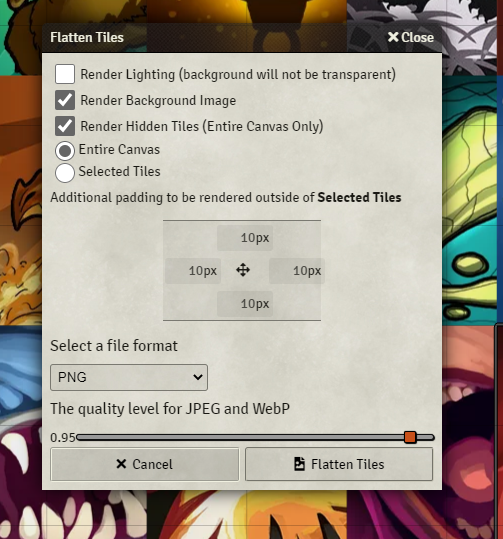
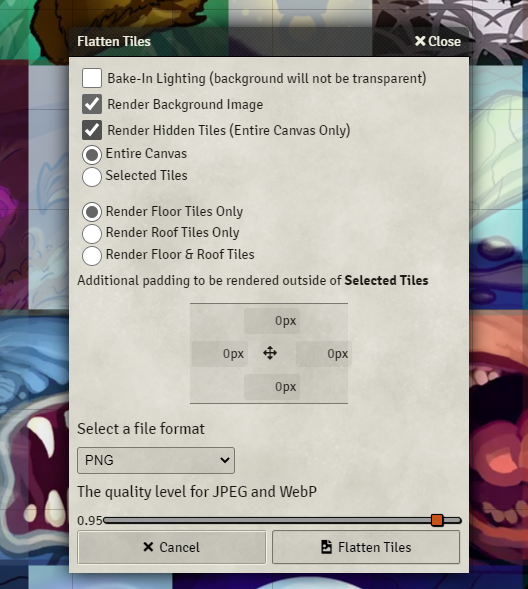
Tile Flattener now filters roofs and floors

diff --git a/src/tiles/TileFlattener.ts b/src/tiles/TileFlattener.ts
@@ -11,6 +11,12 @@ interface Margin {
 }
 interface ImageData { data: string, width: number, height: number }
 
+enum TileLayerRendered {
+	Floor,
+	Roof,
+	Both
+}
+
 export default class TileFlattener {
 
 	private static readonly PREF_RENDER_LIGHT = "TileFlattener.RenderLighting";
@@ -18,19 +24,18 @@ export default class TileFlattener {
 	private static readonly PREF_RENDER_SLCTD = "TileFlattener.RenderSelectedOnly";
 	private static readonly PREF_RENDER_HIDEN = "TileFlattener.RenderHiddenTiles";
 	private static readonly PREF_MARGIN = "TileFlattener.Margin";
+	private static readonly PREF_LAYERS = "TileFlattener.Layers";
 	static readonly PREF_FOLDER = "TileFlattener.Folder";
 	static readonly PREF_FOLDER_SOURCE = "TileFlattener.FolderSource";
 
-	private static get renderLights(): Boolean { return SETTINGS.get(this.PREF_RENDER_LIGHT); }
-	private static set renderLights(value: Boolean) { SETTINGS.set(this.PREF_RENDER_LIGHT, value); }
-	private static get renderBackground(): Boolean { return SETTINGS.get(this.PREF_RENDER_BACKG); }
-	private static set renderBackground(value: Boolean) { SETTINGS.set(this.PREF_RENDER_BACKG, value); }
-	private static get renderSelected(): Boolean { return SETTINGS.get(this.PREF_RENDER_SLCTD); }
-	private static set renderSelected(value: Boolean) { SETTINGS.set(this.PREF_RENDER_SLCTD, value); }
-	private static get renderHidden(): Boolean { return SETTINGS.get(this.PREF_RENDER_HIDEN); }
-	private static set renderHidden(value: Boolean) { SETTINGS.set(this.PREF_RENDER_HIDEN, value); }
+	private static get renderLights(): boolean { return SETTINGS.get(this.PREF_RENDER_LIGHT); }
+	private static get renderBackground(): boolean { return SETTINGS.get(this.PREF_RENDER_BACKG); }
+	private static get renderSelected(): boolean { return SETTINGS.get(this.PREF_RENDER_SLCTD); }
+	private static get renderHidden(): boolean { return SETTINGS.get(this.PREF_RENDER_HIDEN); }
 	private static get margin(): Margin { return SETTINGS.get(this.PREF_MARGIN); }
-	private static set margin(value: Margin) { SETTINGS.set(this.PREF_MARGIN, value); }
+	private static get layers(): number { return SETTINGS.get(this.PREF_LAYERS); }
+	private static get folder(): string { return SETTINGS.get(this.PREF_FOLDER); }
+	private static get folderSource(): string { return SETTINGS.get(this.PREF_FOLDER_SOURCE); }
 
 	static init() {
 		//#region Register Render Configuration Settings
@@ -38,6 +43,7 @@ export default class TileFlattener {
 		SETTINGS.register<Boolean>(this.PREF_RENDER_BACKG, { scope: 'client', config: false, type: Boolean, default: true });
 		SETTINGS.register<Boolean>(this.PREF_RENDER_SLCTD, { scope: 'client', config: false, type: Boolean, default: false });
 		SETTINGS.register<Boolean>(this.PREF_RENDER_HIDEN, { scope: 'client', config: false, type: Boolean, default: true });
+		SETTINGS.register<Number>(this.PREF_LAYERS, { scope: 'client', config: false, type: Number, default: 0 });
 		SETTINGS.register<Margin>(this.PREF_MARGIN, { scope: 'client', config: false, type: SETTINGS.typeOf<Margin>(), default: { l: 0, r: 0, t: 0, b: 0 } });
 		//#endregion
 
@@ -72,7 +78,8 @@ export default class TileFlattener {
 			lights: this.renderLights,
 			showBG: this.renderBackground,
 			select: this.renderSelected,
-			hidden: this.renderHidden
+			hidden: this.renderHidden,
+			layers: this.layers
 		};
 		const dialog: Dialog = new Dialog({
 			title: 'DF_ARCHITECT.TileFlattener.CapturePromptTitle'.localize(),
@@ -110,6 +117,9 @@ export default class TileFlattener {
 		const showBG = html.querySelector<HTMLInputElement>('#showBG').checked;
 		const hidden = html.querySelector<HTMLInputElement>('#hidden').checked;
 		const select = html.querySelector<HTMLInputElement>('#tiles').checked;
+		const layers = html.querySelector<HTMLInputElement>('#floor').checked
+			? TileLayerRendered.Floor : html.querySelector<HTMLInputElement>('#roof').checked
+				? TileLayerRendered.Roof : TileLayerRendered.Both;
 		// Save data as defaults for later
 		await Promise.all([
 			SETTINGS.set(this.PREF_RENDER_LIGHT, lights),
@@ -118,6 +128,7 @@ export default class TileFlattener {
 			SETTINGS.set(this.PREF_RENDER_SLCTD, select),
 			SETTINGS.set(this.PREF_MARGIN, margin),
 			SETTINGS.set(this.PREF_RENDER_LIGHT, lights),
+			SETTINGS.set(this.PREF_LAYERS, layers),
 			SETTINGS.set(CaptureGameScreen.PREF_FRMT, format),
 			SETTINGS.set(CaptureGameScreen.PREF_COMP, quality),
 		]);
@@ -150,22 +161,31 @@ export default class TileFlattener {
 			CaptureGameScreen.toggleLayer(layer.name, false)
 		}
 		CaptureGameScreen.toggleLayer("LightingLayer", lights);
+		if (layers === TileLayerRendered.Floor)
+			CaptureGameScreen.toggleLayer("ForegroundLayer", false);
+		else if (layers === TileLayerRendered.Roof) {
+			// Hide all tiles on the background layer
+			for (let tile of canvas.background.tiles) {
+				tilesPreHidden.push([tile, tile.data.hidden]);
+				tile.data.hidden = true;
+			}
+		}
 		// Update the Background Image
 		canvas.background.bg.visible = showBG;
 		(<any>canvas.app.renderer).backgroundAlpha = 0;
 
 		// Begin the Canvas Capture Process
 		const session = CaptureGameScreen.beginCapture(false);
+		var image: ImageData;
 		try {
 			if (!session) {
 				ui.notifications.warn('DF_ARCHITECT.CaptureGameScreen.ErrorCaptureInProgress'.localize());
 				this.promptForTileFlattening();
 				return;
 			}
-			CaptureGameScreen.toggleHidden("BackgroundLayer", hidden && !select);
+			CaptureGameScreen.toggleHidden("BackgroundLayer", hidden && !select && layers !== TileLayerRendered.Roof);
 			CaptureGameScreen.toggleHidden("ForegroundLayer", hidden && !select);
 
-			var image: ImageData;
 			if (select) {
 				const rect = {
 					l: Number.MAX_VALUE,
@@ -192,19 +212,6 @@ export default class TileFlattener {
 			} else {
 				image = await CaptureGameScreen.captureCanvas({ format: 'image/' + format, quality });
 			}
-			// Terminate the canvas capture
-			CaptureGameScreen.endCapture(session);
-			// Save the image data to file
-			const filePath = await CaptureGameScreen.saveImageData({
-				image,
-				defaultFileName: 'DF_ARCHITECT.TileFlattener.SaveImageDialog.FileNamePlaceholder'.localize(),
-				dialogTitle: 'DF_ARCHITECT.TileFlattener.SaveImageDialog.Title'.localize(),
-				folder: SETTINGS.get<string>(this.PREF_FOLDER),
-				folderSource: SETTINGS.get<string>(this.PREF_FOLDER_SOURCE)
-			});
-			// Prompt to ask what to do with it
-			if (!!filePath)
-				this.promptSceneReplacement(filePath, image.width, image.height);
 		} finally {
 			// Terminate the canvas capture
 			CaptureGameScreen.endCapture(session);
@@ -214,10 +221,22 @@ export default class TileFlattener {
 			// Restore the non-selected tiles
 			for (let [tile, hidden] of tilesPreHidden) {
 				tile.data.hidden = hidden;
+				tile.refresh();
 			}
 			// Restore selection
 			controlledTiles.forEach(x => x.control({ releaseOthers: false }));
 		}
+		// Save the image data to file
+		CaptureGameScreen.saveImageData({
+			image,
+			defaultFileName: 'DF_ARCHITECT.TileFlattener.SaveImageDialog.FileNamePlaceholder'.localize(),
+			dialogTitle: 'DF_ARCHITECT.TileFlattener.SaveImageDialog.Title'.localize(),
+			folder: this.folder,
+			folderSource: this.folderSource
+		}).then(filePath => {
+			// Prompt to ask what to do with it
+			if (!!filePath) this.promptSceneReplacement(filePath, image.width, image.height, layers, lights);
+		});
 	}
 
 	private static setupBindings(html: JQuery) {
@@ -238,7 +257,7 @@ export default class TileFlattener {
 		tiles.on('change', update);
 	}
 
-	private static async promptSceneReplacement(filePath: string, width: number, height: number) {
+	private static async promptSceneReplacement(filePath: string, width: number, height: number, layersRendered: TileLayerRendered, bakedLighting: boolean) {
 		const dialog: Dialog = new Dialog({
 			title: 'DF_ARCHITECT.TileFlattener.SceneReplaceDialog.Title'.localize(),
 			content: await renderTemplate(`modules/${ARCHITECT.MOD_NAME}/templates/tile-flatten-scene.hbs`, {}),
@@ -258,38 +277,25 @@ export default class TileFlattener {
 				});
 				html.find('#clone').on('click', async (e) => {
 					e.preventDefault();
-					const data: DeepPartial<Scene.Data> = {};
-					const ignored = new Set([
-						"active",
-						"drawings",
-						"flags",
-						"img",
-						"lights",
-						"name",
-						"navName",
-						"navOrder",
-						"navigation",
-						"notes",
-						"permission",
-						"sounds",
-						"templates",
-						"thumb",
-						"tiles",
-						"tokens",
-						"walls",
-						"_id",
-					]);
-					for (let prop of Object.keys(game.scenes.viewed.data)) {
-						if (ignored.has(prop)) continue;
-						(data as Record<string, any>)[prop] = (game.scenes.viewed.data as Record<string, any>)[prop];
-					}
-					data.img = filePath;
-					const result = await Scene.createDialog();
-					if (!result) return;
-					else dialog.close();
-					await result.update(data);
-					const thumbData = await (<any>result).createThumbnail();
-					await result.update(<any>{ thumb: thumbData.thumb }, { diff: false });
+					// Create the new scene
+					const newScene = await game.scenes.viewed.clone({
+						name: game.scenes.viewed.name + ' (Copy)',
+						img: filePath
+					}, { save: true });
+					// Get the tiles that were rendered
+					var tiles: Tile.Data[] = newScene.data.tiles.map(x => x.data);
+					if (layersRendered === TileLayerRendered.Floor)
+						tiles = tiles.filter(x => !x.overhead);
+					else if (layersRendered === TileLayerRendered.Roof)
+						tiles = tiles.filter(x => x.overhead);
+					// Delete the rendered tiles
+					await newScene.deleteEmbeddedDocuments('Tile', tiles.map(x => x._id));
+					const thumbData = await (<any>newScene).createThumbnail();
+					await newScene.update(<any>{ thumb: thumbData.thumb }, { diff: false });
+					// If lighting was baked in, delete the scene's lights
+					if (bakedLighting)
+						await newScene.deleteEmbeddedDocuments('AmbientLight', newScene.data.lights.map(x => x._id));
+					dialog.close();
 				});
 				html.find('#tile').on('click', async (e) => {
 					e.preventDefault();

diff --git a/src/global.d.ts b/src/global.d.ts
@@ -47,7 +47,7 @@ declare namespace Scene {
 		sort: number;
 		sounds: AmbientSound['data'][];
 		templates: MeasuredTemplate['data'][];
-		tiles: Tile['data'][];
+		tiles: Tile[];
 		tokenVision: boolean;
 		tokens: Token['data'][];
 		walls: Wall['data'][];
@@ -69,7 +69,7 @@ declare class Canvas {
 	hud: HeadsUpDisplay;
 	background: any; // TODO: BackgroundLayer
 	foreground: any; // TODO: BackgroundLayer
-	tiles: any; //TODO: TilesLayer
+	tiles: TilesLayer; //TODO: TilesLayer
 	drawings: any; //TODO: DrawingsLayer
 	grid: GridLayer;
 	walls: WallsLayer; //TODO: WallsLayer

diff --git a/src/general/CaptureGameScreen.ts b/src/general/CaptureGameScreen.ts
@@ -92,6 +92,10 @@ export default class CaptureGameScreen {
 	}
 
 	static async promptForCapture() {
+		if (!game.scenes.viewed) {
+			ui.notifications.warn('DF_ARCHITECT.CaptureGameScreen.ScreenCapture.WarningNoScene'.localize());
+			return;
+		}
 		const layerToConfig = (layer: CanvasLayer): any => {
 			var label = ('LAYERS.' + layer.name).localize();
 			if (label.startsWith('LAYERS.'))

diff --git a/gulpfile.js b/gulpfile.js
@@ -197,6 +197,7 @@ exports.zip = gulp.series(
 			, pdel(DIST + SOURCE)
 			, () => gulp.src(DIST + '.temp/' + GLOB).pipe(gulp.dest(DIST + SOURCE))
 			, pdel(DIST + '.temp/')
+			, () => gulp.src(LIBS + GLOB).pipe(gulp.dest(DIST + SOURCE))
 		)
 		, buildManifest()
 		, outputLanguages()
